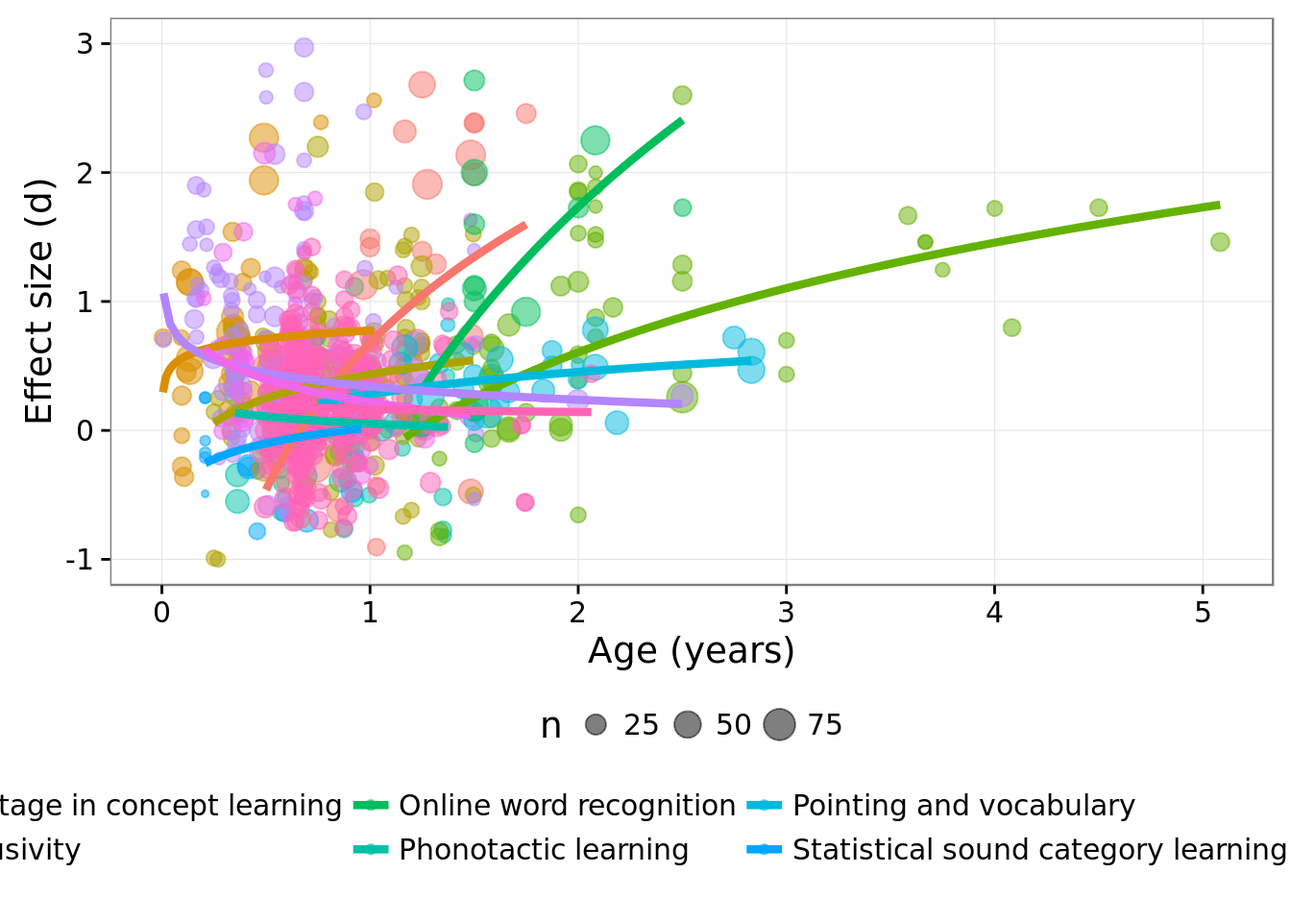
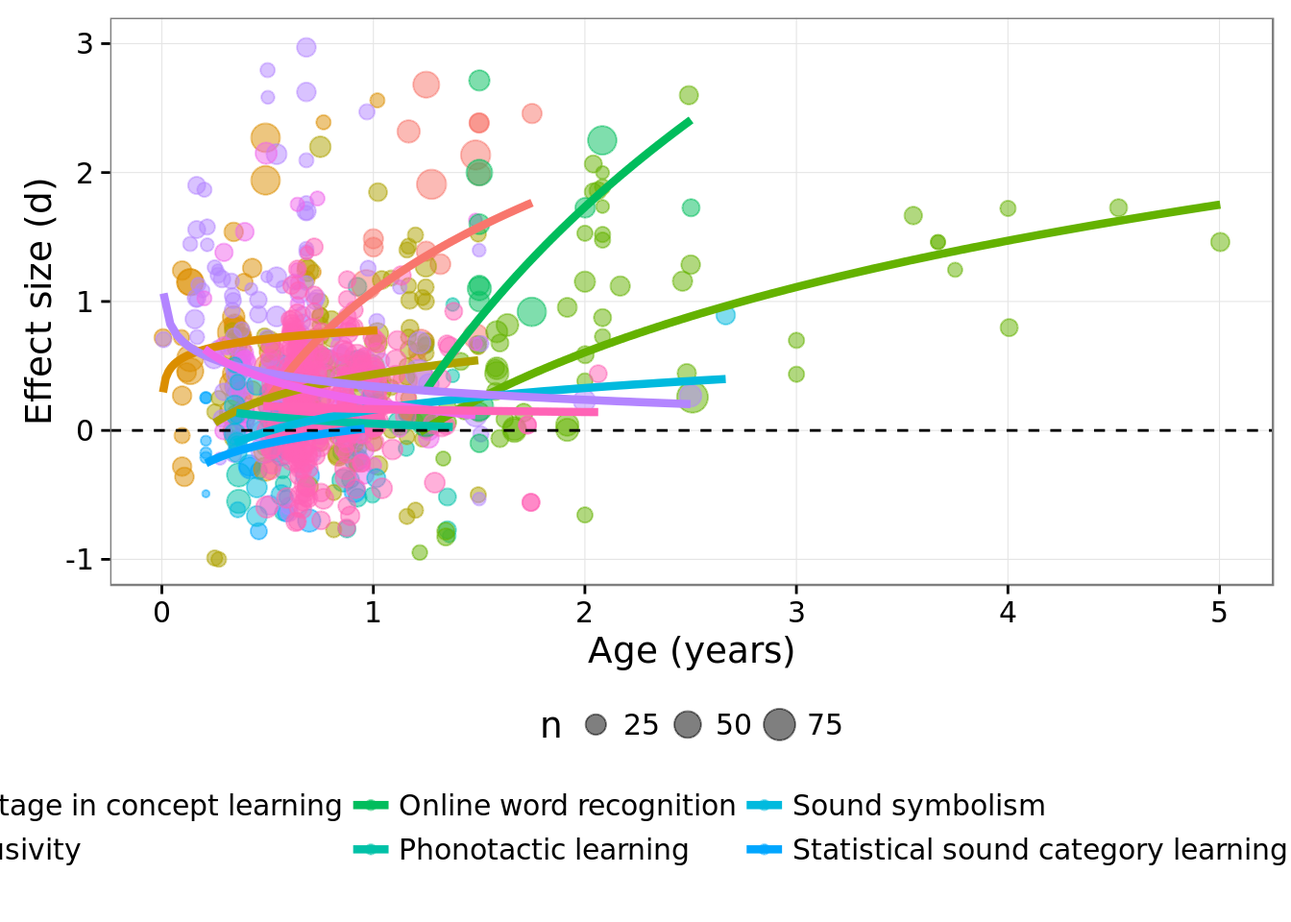
deployed to github pages

diff --git a/metameta.html b/metameta.html
@@ -257,15 +257,17 @@ div.tocify {
 
 <h1 class="title toc-ignore">Meta-meta analsyis</h1>
 <h4 class="author"><em>Molly Lewis, Mika Braginsky, &amp; Mike Frank</em></h4>
-<h4 class="date"><em>This report was rendered on 2016-05-12 and will be automatically re-rendered nightly, reflecting any changes in the data or code.</em></h4>
+<h4 class="date"><em>This report was rendered on 2016-06-02 and will be automatically re-rendered nightly, reflecting any changes in the data or code.</em></h4>
 
 </div>
 
 
-<div id="introduction" class="section level1">
-<h1>Introduction</h1>
 <p>Let’s put everything together.</p>
-<div class="sourceCode"><pre class="sourceCode r"><code class="sourceCode r"><span class="kw">ggplot</span>(all_data,
+<div id="all-effect-sizes" class="section level2">
+<h2>All effect sizes</h2>
+<div class="sourceCode"><pre class="sourceCode r"><code class="sourceCode r">all_data.f =<span class="st"> </span><span class="kw">filter</span>(all_data, dataset !=<span class="st"> &quot;Gaze following&quot;</span> |<span class="st"> </span>d_calc &gt;<span class="st"> </span><span class="dv">0</span>) %&gt;%
+<span class="st">                </span><span class="kw">filter</span>(dataset !=<span class="st"> &quot;Pointing and vocabulary&quot;</span>)
+<span class="kw">ggplot</span>(all_data.f,
        <span class="kw">aes</span>(<span class="dt">x =</span> mean_age/<span class="dv">365</span>, <span class="dt">y =</span> d_calc, <span class="dt">col =</span> dataset)) +<span class="st"> </span>
 <span class="st">  </span><span class="kw">geom_point</span>(<span class="kw">aes</span>(<span class="dt">size =</span> n), <span class="dt">alpha =</span> .<span class="dv">5</span>) +<span class="st"> </span>
 <span class="st">  </span><span class="kw">geom_smooth</span>(<span class="dt">method=</span><span class="st">&quot;lm&quot;</span>, <span class="dt">se =</span> <span class="ot">FALSE</span>, <span class="dt">size =</span> <span class="fl">1.5</span>, 
@@ -275,16 +277,15 @@ div.tocify {
 <span class="st">  </span><span class="kw">theme</span>(<span class="dt">legend.position =</span> <span class="st">&quot;bottom&quot;</span>,
         <span class="dt">legend.key =</span> <span class="kw">element_blank</span>(),
         <span class="dt">legend.background =</span> <span class="kw">element_rect</span>(<span class="dt">fill =</span> <span class="st">&quot;transparent&quot;</span>)) +<span class="st"> </span>
+<span class="st">    </span><span class="kw">geom_hline</span>(<span class="dt">yintercept =</span> <span class="dv">0</span>, <span class="dt">linetype =</span> <span class="st">&quot;dashed&quot;</span>) +
+
 <span class="st">  </span><span class="kw">scale_color_discrete</span>(<span class="dt">guide =</span> <span class="kw">guide_legend</span>(<span class="dt">nrow=</span><span class="dv">2</span>, 
                                              <span class="dt">title =</span> <span class="st">&quot;&quot;</span>)) +<span class="st"> </span>
 <span class="st">  </span><span class="kw">ylim</span>(<span class="kw">c</span>(-<span class="dv">1</span>, <span class="dv">3</span>))</code></pre></div>
 <p><img src="metameta_files/figure-html/unnamed-chunk-1-1.png" title="" alt="" width="672" /></p>
-<p>Plot without ME, to fcous on the first two years.</p>
-<div class="sourceCode"><pre class="sourceCode r"><code class="sourceCode r"><span class="kw">ggplot</span>(<span class="kw">filter</span>(all_data, 
-              mean_age &lt;<span class="st"> </span><span class="dv">365</span> *<span class="st"> </span><span class="fl">1.5</span>,
-              dataset !=<span class="st"> &quot;Mutual exclusivity&quot;</span>),
-       <span class="kw">aes</span>(<span class="dt">x =</span> mean_age/<span class="dv">365</span>, <span class="dt">y =</span> d_calc, <span class="dt">col =</span> dataset)) +<span class="st"> </span>
-<span class="st">  </span><span class="kw">geom_point</span>(<span class="kw">aes</span>(<span class="dt">size =</span> n), <span class="dt">alpha =</span> .<span class="dv">5</span>) +<span class="st"> </span>
+<p>Model fits only</p>
+<div class="sourceCode"><pre class="sourceCode r"><code class="sourceCode r">p =<span class="st"> </span><span class="kw">ggplot</span>(all_data.f,
+       <span class="kw">aes</span>(<span class="dt">x =</span> mean_age/<span class="dv">365</span>, <span class="dt">y =</span> d_calc, <span class="dt">col =</span> dataset, <span class="dt">group =</span> dataset)) +<span class="st"> </span>
 <span class="st">  </span><span class="kw">geom_smooth</span>(<span class="dt">method=</span><span class="st">&quot;lm&quot;</span>, <span class="dt">se =</span> <span class="ot">FALSE</span>, <span class="dt">size =</span> <span class="fl">1.5</span>, 
               <span class="kw">aes</span>(<span class="dt">weight =</span> <span class="dv">1</span>/d_var_calc), <span class="dt">formula =</span> y ~<span class="st"> </span><span class="kw">log</span>(x)) +<span class="st"> </span>
 <span class="st">  </span><span class="kw">xlab</span>(<span class="st">&quot;Age (years)&quot;</span>) +<span class="st"> </span>
@@ -292,10 +293,219 @@ div.tocify {
 <span class="st">  </span><span class="kw">theme</span>(<span class="dt">legend.position =</span> <span class="st">&quot;bottom&quot;</span>,
         <span class="dt">legend.key =</span> <span class="kw">element_blank</span>(),
         <span class="dt">legend.background =</span> <span class="kw">element_rect</span>(<span class="dt">fill =</span> <span class="st">&quot;transparent&quot;</span>)) +<span class="st"> </span>
+<span class="st">    </span><span class="kw">geom_hline</span>(<span class="dt">yintercept =</span> <span class="dv">0</span>, <span class="dt">linetype =</span> <span class="st">&quot;dashed&quot;</span>) +
+
 <span class="st">  </span><span class="kw">scale_color_discrete</span>(<span class="dt">guide =</span> <span class="kw">guide_legend</span>(<span class="dt">nrow=</span><span class="dv">2</span>, 
                                              <span class="dt">title =</span> <span class="st">&quot;&quot;</span>)) +<span class="st"> </span>
-<span class="st">  </span><span class="kw">ylim</span>(<span class="kw">c</span>(-<span class="dv">1</span>, <span class="dv">3</span>))</code></pre></div>
+<span class="st">  </span><span class="kw">ylim</span>(<span class="kw">c</span>(-<span class="dv">1</span>, <span class="dv">3</span>)) 
+<span class="kw">direct.label</span>(p, <span class="kw">list</span>(<span class="st">&quot;top.bumptwice&quot;</span>, <span class="kw">dl.trans</span>(<span class="dt">y =</span> y +<span class="st"> </span><span class="fl">0.2</span>), <span class="dt">cex=</span>.<span class="dv">8</span>))</code></pre></div>
 <p><img src="metameta_files/figure-html/unnamed-chunk-2-1.png" title="" alt="" width="672" /></p>
+<div class="sourceCode"><pre class="sourceCode r"><code class="sourceCode r"><span class="co">#direct.label(p, method = list(box.color = NA, &quot;maxvar.points&quot;,  cex=.8))</span></code></pre></div>
+<p>Focus on the first two years, without mutual exclusivity</p>
+<div class="sourceCode"><pre class="sourceCode r"><code class="sourceCode r">p2 =<span class="st"> </span><span class="kw">ggplot</span>(<span class="kw">filter</span>(all_data.f, 
+              mean_age &lt;<span class="st"> </span><span class="dv">365</span> *<span class="st"> </span><span class="dv">2</span>, dataset !=<span class="st"> &quot;Mutual exclusivity&quot;</span>),
+       <span class="kw">aes</span>(<span class="dt">x =</span> mean_age/<span class="dv">365</span>, <span class="dt">y =</span> d_calc, <span class="dt">col =</span> dataset)) +<span class="st"> </span>
+<span class="st">  </span><span class="co">#geom_point(aes(size = n), alpha = .5) + </span>
+<span class="st">  </span><span class="kw">geom_smooth</span>(<span class="dt">method=</span><span class="st">&quot;lm&quot;</span>, <span class="dt">se =</span> <span class="ot">FALSE</span>, <span class="dt">size =</span> <span class="fl">1.5</span>, 
+              <span class="kw">aes</span>(<span class="dt">weight =</span> <span class="dv">1</span>/d_var_calc), <span class="dt">formula =</span> y ~<span class="st"> </span><span class="kw">log</span>(x)) +<span class="st"> </span>
+<span class="st">      </span><span class="kw">geom_hline</span>(<span class="dt">yintercept =</span> <span class="dv">0</span>, <span class="dt">linetype =</span> <span class="st">&quot;dashed&quot;</span>) +
+
+<span class="st">  </span><span class="kw">xlab</span>(<span class="st">&quot;Age (years)&quot;</span>) +<span class="st"> </span>
+<span class="st">  </span><span class="kw">ylab</span>(<span class="st">&quot;Effect size (d)&quot;</span>) +<span class="st"> </span>
+<span class="st">  </span><span class="kw">theme</span>(<span class="dt">legend.position =</span> <span class="st">&quot;bottom&quot;</span>,
+        <span class="dt">legend.key =</span> <span class="kw">element_blank</span>(),
+        <span class="dt">legend.background =</span> <span class="kw">element_rect</span>(<span class="dt">fill =</span> <span class="st">&quot;transparent&quot;</span>)) +<span class="st"> </span>
+<span class="st">  </span><span class="kw">scale_color_discrete</span>(<span class="dt">guide =</span> <span class="kw">guide_legend</span>(<span class="dt">nrow=</span><span class="dv">2</span>, 
+                                             <span class="dt">title =</span> <span class="st">&quot;&quot;</span>)) 
+ <span class="kw">direct.label</span>(p2, <span class="kw">list</span>(<span class="st">&quot;top.bumptwice&quot;</span>, <span class="kw">dl.trans</span>(<span class="dt">y =</span> y +<span class="st"> </span><span class="fl">0.2</span>), <span class="dt">cex=</span>.<span class="dv">8</span>))</code></pre></div>
+<p><img src="metameta_files/figure-html/unnamed-chunk-3-1.png" title="" alt="" width="672" /></p>
+</div>
+<div id="by-language-domain" class="section level2">
+<h2>By language domain</h2>
+<div class="sourceCode"><pre class="sourceCode r"><code class="sourceCode r"> ld.df =<span class="st"> </span><span class="kw">data.frame</span>(<span class="dt">dataset =</span> datasets$name,
+                    <span class="dt">domain =</span> <span class="kw">c</span>(<span class="st">&quot;prosody&quot;</span>, <span class="st">&quot;words&quot;</span>, <span class="st">&quot;communication&quot;</span>, <span class="st">&quot;sounds&quot;</span>,
+                               <span class="st">&quot;sounds&quot;</span>, <span class="st">&quot;sounds&quot;</span>, <span class="st">&quot;sounds&quot;</span>, <span class="st">&quot;sounds&quot;</span>, <span class="st">&quot;words&quot;</span>,
+                               <span class="st">&quot;words&quot;</span>, <span class="st">&quot;communication&quot;</span>, <span class="st">&quot;sounds&quot;</span>))
+ ld.df$domain =<span class="st"> </span><span class="kw">factor</span>(ld.df$domain, <span class="dt">levels=</span><span class="kw">c</span>(<span class="st">&quot;prosody&quot;</span>,<span class="st">&quot;sounds&quot;</span>, <span class="st">&quot;words&quot;</span>, <span class="st">&quot;communication&quot;</span>))
+ 
+lin_lmer &lt;-<span class="st"> </span><span class="kw">lmer</span>(d_calc ~<span class="st"> </span>mean_age +<span class="st"> </span>
+<span class="st">                </span>(<span class="kw">log</span>(mean_age)|<span class="st"> </span>dataset), 
+                <span class="dt">weights =</span> <span class="dv">1</span>/d_var_calc, 
+                <span class="dt">REML =</span> F, <span class="dt">data =</span> all_data)
+
+lin_lmer_preds &lt;-<span class="st"> </span><span class="kw">predict</span>(lin_lmer, <span class="dt">re.form =</span> ~<span class="st"> </span>(<span class="kw">log</span>(mean_age)|<span class="st"> </span>dataset))
+
+
+all_data_preds &lt;-<span class="st"> </span>all_data %&gt;%
+<span class="st">  </span><span class="kw">select</span>(dataset, short_name, d_calc, d_var_calc, mean_age, study_ID) %&gt;%
+<span class="st">  </span><span class="kw">filter</span>(<span class="kw">complete.cases</span>(.)) %&gt;%
+<span class="st">  </span><span class="kw">mutate</span>(<span class="dt">lin_lmer_preds =</span> lin_lmer_preds) %&gt;%<span class="st"> </span>
+<span class="st">  </span><span class="kw">filter</span>(dataset !=<span class="st"> &quot;Gaze following&quot;</span> |<span class="st"> </span>lin_lmer_preds &gt;<span class="st"> </span><span class="dv">0</span>) %&gt;%
+<span class="st">                </span><span class="kw">filter</span>(dataset !=<span class="st"> &quot;Pointing and vocabulary&quot;</span>)
+
+p3 =<span class="st"> </span><span class="kw">ggplot</span>(<span class="kw">left_join</span>(all_data_preds, ld.df),
+       <span class="kw">aes</span>(<span class="dt">x =</span> mean_age/<span class="dv">365</span>, <span class="dt">y =</span> lin_lmer_preds, <span class="dt">col =</span> dataset)) +
+<span class="st">  </span><span class="co">#geom_line() +</span>
+<span class="st">  </span><span class="kw">facet_grid</span>(~domain) +
+<span class="st">  </span><span class="co">#geom_point(aes(size = n), alpha = .5) + </span>
+<span class="st">  </span><span class="kw">geom_smooth</span>(<span class="dt">method=</span><span class="st">&quot;lm&quot;</span>, <span class="dt">se =</span> <span class="ot">FALSE</span>, <span class="dt">size =</span> <span class="dv">1</span>, 
+              <span class="kw">aes</span>(<span class="dt">weight =</span> <span class="dv">1</span>/d_var_calc), <span class="dt">formula =</span> y ~<span class="st"> </span><span class="kw">log</span>(x)) +<span class="st"> </span>
+<span class="st">  </span><span class="kw">geom_hline</span>(<span class="dt">yintercept =</span> <span class="dv">0</span>, <span class="dt">linetype =</span> <span class="st">&quot;dashed&quot;</span>) +
+<span class="st">  </span><span class="kw">xlab</span>(<span class="st">&quot;Age (years)&quot;</span>) +<span class="st"> </span>
+<span class="st">  </span><span class="kw">ylab</span>(<span class="st">&quot;Effect size (d)&quot;</span>) +<span class="st"> </span>
+<span class="st">  </span><span class="kw">theme</span>(<span class="dt">legend.position =</span> <span class="st">&quot;bottom&quot;</span>,
+        <span class="dt">legend.key =</span> <span class="kw">element_blank</span>(),
+        <span class="dt">legend.background =</span> <span class="kw">element_rect</span>(<span class="dt">fill =</span> <span class="st">&quot;transparent&quot;</span>)) 
+
+ <span class="kw">direct.label</span>(p3, <span class="kw">list</span>(<span class="st">&quot;top.bumptwice&quot;</span>, <span class="kw">dl.trans</span>(<span class="dt">y =</span> y +<span class="st"> </span><span class="fl">0.1</span>), <span class="dt">cex=</span>.<span class="dv">8</span>))</code></pre></div>
+<p><img src="metameta_files/figure-html/unnamed-chunk-4-1.png" title="" alt="" width="672" /></p>
+<div id="split-by-response-mode" class="section level3">
+<h3>Split by response mode</h3>
+<div class="sourceCode"><pre class="sourceCode r"><code class="sourceCode r">lin_lmer &lt;-<span class="st"> </span><span class="kw">lmer</span>(d_calc ~<span class="st"> </span>mean_age +<span class="st"> </span>
+<span class="st">                </span>(<span class="kw">log</span>(mean_age)|<span class="st"> </span>dataset), 
+                <span class="dt">weights =</span> <span class="dv">1</span>/d_var_calc, 
+                <span class="dt">REML =</span> F, <span class="dt">data =</span> all_data)
+
+lin_lmer_preds &lt;-<span class="st"> </span><span class="kw">predict</span>(lin_lmer, <span class="dt">re.form =</span> ~<span class="st"> </span>(<span class="kw">log</span>(mean_age)|<span class="st"> </span>dataset))
+
+all_data_preds &lt;-<span class="st"> </span>all_data %&gt;%
+<span class="st">  </span><span class="kw">select</span>(dataset, short_name, d_calc, d_var_calc, mean_age, study_ID, response_mode) %&gt;%
+<span class="st">  </span><span class="kw">filter</span>(<span class="kw">complete.cases</span>(.)) %&gt;%
+<span class="st">  </span><span class="kw">mutate</span>(<span class="dt">lin_lmer_preds =</span> lin_lmer_preds) %&gt;%<span class="st"> </span>
+<span class="st">  </span><span class="kw">filter</span>(dataset !=<span class="st"> &quot;Gaze following&quot;</span> |<span class="st"> </span>lin_lmer_preds &gt;<span class="st"> </span><span class="dv">0</span>) %&gt;%
+<span class="st">                </span><span class="kw">filter</span>(dataset !=<span class="st"> &quot;Pointing and vocabulary&quot;</span>,
+                       response_mode ==<span class="st"> &quot;eye-tracking&quot;</span> |<span class="st"> </span>response_mode ==<span class="st"> &quot;behavior&quot;</span>)
+  
+
+p4 =<span class="st"> </span><span class="kw">ggplot</span>(<span class="kw">left_join</span>(all_data_preds, ld.df),
+       <span class="kw">aes</span>(<span class="dt">x =</span> mean_age/<span class="dv">365</span>, <span class="dt">y =</span> d_calc, <span class="dt">col =</span> dataset, <span class="dt">lty =</span> response_mode)) +
+<span class="st">  </span><span class="co">#geom_line() +</span>
+<span class="st">  </span><span class="kw">facet_grid</span>(~domain) +
+<span class="st">  </span><span class="co">#geom_point(aes(size = n), alpha = .5) + </span>
+<span class="st">  </span><span class="kw">geom_smooth</span>(<span class="dt">method=</span><span class="st">&quot;lm&quot;</span>, <span class="dt">se =</span> <span class="ot">FALSE</span>, <span class="dt">size =</span> <span class="dv">1</span>, 
+              <span class="kw">aes</span>(<span class="dt">weight =</span> <span class="dv">1</span>/d_var_calc), <span class="dt">formula =</span> y ~<span class="st"> </span><span class="kw">log</span>(x)) +<span class="st"> </span>
+<span class="st">  </span><span class="kw">geom_hline</span>(<span class="dt">yintercept =</span> <span class="dv">0</span>, <span class="dt">linetype =</span> <span class="st">&quot;dashed&quot;</span>) +
+<span class="st">  </span><span class="kw">xlab</span>(<span class="st">&quot;Age (years)&quot;</span>) +<span class="st"> </span>
+<span class="st">  </span><span class="kw">ylab</span>(<span class="st">&quot;Effect size (d)&quot;</span>) +<span class="st"> </span>
+<span class="st">  </span><span class="kw">theme</span>(<span class="dt">legend.position =</span> <span class="st">&quot;bottom&quot;</span>,
+        <span class="dt">legend.key =</span> <span class="kw">element_blank</span>(),
+        <span class="dt">legend.background =</span> <span class="kw">element_rect</span>(<span class="dt">fill =</span> <span class="st">&quot;transparent&quot;</span>)) 
+
+ <span class="kw">direct.label</span>(p4, <span class="kw">list</span>(<span class="st">&quot;top.bumptwice&quot;</span>, <span class="kw">dl.trans</span>(<span class="dt">y =</span> y +<span class="st"> </span><span class="fl">0.1</span>), <span class="dt">cex=</span>.<span class="dv">8</span>))</code></pre></div>
+<p><img src="metameta_files/figure-html/unnamed-chunk-5-1.png" title="" alt="" width="672" /></p>
+</div>
+</div>
+<div id="cliffs-delta-dominance-statistic" class="section level2">
+<h2>Cliff’s delta (dominance statistic)</h2>
+<div class="sourceCode"><pre class="sourceCode r"><code class="sourceCode r">lin_lmer &lt;-<span class="st"> </span><span class="kw">lmer</span>(d_calc ~<span class="st"> </span><span class="kw">log</span>(mean_age) +<span class="st"> </span>
+<span class="st">                </span>(<span class="kw">log</span>(mean_age)|<span class="st"> </span>dataset), 
+                <span class="dt">weights =</span> <span class="dv">1</span>/d_var_calc, 
+                <span class="dt">REML =</span> F, <span class="dt">data =</span> all_data)
+
+cliffs.deltas &lt;-<span class="st"> </span><span class="kw">predict</span>(lin_lmer, <span class="dt">re.form =</span> ~<span class="st"> </span>(<span class="kw">log</span>(mean_age) |<span class="st"> </span>dataset))  %&gt;%
+<span class="st">                </span><span class="kw">cbind</span>(., <span class="kw">select</span>(all_data, mean_age, dataset)) %&gt;%<span class="st"> </span>
+<span class="st">                </span><span class="kw">rename_</span>(<span class="st">&quot;cohens.d&quot;</span> =<span class="st"> &quot;.&quot;</span>) %&gt;%
+<span class="st">                </span><span class="kw">distinct</span>() %&gt;%
+<span class="st">                </span><span class="kw">arrange</span>(dataset, mean_age) %&gt;%
+<span class="st">                </span><span class="kw">mutate</span>(<span class="dt">cliff.delta =</span> <span class="kw">cohd2delta</span>(cohens.d)) %&gt;%
+<span class="st">                </span><span class="kw">filter</span>(cliff.delta &gt;<span class="st"> </span>-<span class="dv">1</span>) %&gt;%<span class="st"> </span><span class="co"># why is there 1 value not bounded at 1?</span>
+<span class="st">                </span><span class="kw">filter</span>(dataset !=<span class="st"> &quot;Gaze following&quot;</span> |<span class="st"> </span>cohens.d &gt;<span class="st"> </span><span class="dv">0</span>) %&gt;%
+<span class="st">                </span><span class="kw">filter</span>(dataset !=<span class="st"> &quot;Pointing and vocabulary&quot;</span>)
+
+p =<span class="st"> </span><span class="kw">ggplot</span>(<span class="kw">left_join</span>(cliffs.deltas, ld.df), <span class="kw">aes</span>(<span class="dt">x =</span> mean_age/<span class="dv">365</span>, <span class="dt">y =</span> cliff.delta,
+                                             <span class="dt">group =</span> dataset)) +
+<span class="st">  </span><span class="kw">geom_line</span>(<span class="kw">aes</span>(<span class="dt">color=</span> dataset, <span class="dt">group =</span> dataset), <span class="dt">size =</span> <span class="dv">1</span>) +
+<span class="st">  </span><span class="kw">facet_grid</span>(~domain) +
+<span class="st">  </span><span class="kw">ylim</span>(-.<span class="dv">2</span>,<span class="dv">1</span>) +
+<span class="st">  </span><span class="kw">geom_hline</span>(<span class="dt">yintercept =</span> <span class="dv">0</span>, <span class="dt">lty =</span> <span class="dv">2</span>, <span class="dt">col =</span> <span class="st">&quot;black&quot;</span>) +
+<span class="st">  </span><span class="kw">xlab</span>(<span class="st">&quot;Age (years)&quot;</span>) +
+<span class="st">  </span><span class="kw">ylab</span>(<span class="st">&quot;cliff&#39;s delta&quot;</span>)  +
+<span class="st">  </span><span class="kw">scale_color_discrete</span>(<span class="dt">guide =</span> <span class="ot">FALSE</span>) 
+  <span class="co">#scale_x_continuous(breaks = seq(0,160,12)) +</span>
+  <span class="co">#theme(axis.text.x = element_text( angle=45))</span>
+
+<span class="kw">direct.label</span>(p, <span class="kw">list</span>(<span class="st">&quot;top.bumptwice&quot;</span>, <span class="kw">dl.trans</span>(<span class="dt">y =</span> y +<span class="st"> </span><span class="fl">0.2</span>, <span class="dt">cex=</span>.<span class="dv">8</span>)))</code></pre></div>
+<p><img src="metameta_files/figure-html/unnamed-chunk-6-1.png" title="" alt="" width="672" /></p>
+<div class="sourceCode"><pre class="sourceCode r"><code class="sourceCode r">### MISC:
+### Does the functional form vary across domains?
+lin_lmer_preds &lt;-<span class="st"> </span><span class="kw">predict</span>(lin_lmer, <span class="dt">re.form =</span> ~<span class="st"> </span>(<span class="kw">log</span>(mean_age)|<span class="st"> </span>dataset))
+log_lmer_preds &lt;-<span class="st"> </span><span class="kw">predict</span>(log_lmer, <span class="dt">re.form =</span> ~<span class="st"> </span>(<span class="kw">log</span>(mean_age)|<span class="st"> </span>dataset))
+quad_lmer_preds &lt;-<span class="st"> </span><span class="kw">predict</span>(quad_lmer, <span class="dt">re.form =</span> ~<span class="st"> </span>(<span class="kw">log</span>(mean_age)|<span class="st"> </span>dataset))
+
+all_data_preds &lt;-<span class="st"> </span>all_data %&gt;%
+<span class="st">  </span><span class="kw">select</span>(dataset, short_name, d_calc, d_var_calc, mean_age, study_ID) %&gt;%
+<span class="st">  </span><span class="kw">filter</span>(<span class="kw">complete.cases</span>(.)) %&gt;%
+<span class="st">  </span><span class="kw">mutate</span>(<span class="dt">lin_lmer_preds =</span> lin_lmer_preds,
+         <span class="dt">log_lmer_preds =</span> log_lmer_preds,
+         <span class="dt">quad_lmer_preds =</span> quad_lmer_preds) %&gt;%
+<span class="st">  </span><span class="kw">gather</span>(<span class="st">&quot;model&quot;</span>, <span class="st">&quot;value&quot;</span> , <span class="dv">7</span>:<span class="dv">9</span>) %&gt;%
+<span class="st">  </span><span class="kw">mutate</span>(<span class="dt">dataset.model =</span> <span class="kw">paste</span>(dataset, model, <span class="dt">sep =</span> <span class="st">&quot;_&quot;</span>))</code></pre></div>
+<div class="sourceCode"><pre class="sourceCode r"><code class="sourceCode r"><span class="kw">ggplot</span>(<span class="kw">left_join</span>(all_data_preds, ld.df), <span class="kw">aes</span>(<span class="dt">x =</span> mean_age, <span class="dt">y =</span> d_calc,
+                                             <span class="dt">group =</span> dataset.model)) +
+<span class="st">  </span><span class="kw">geom_line</span>(<span class="kw">aes</span>(<span class="dt">color=</span> dataset.model, <span class="dt">group =</span> dataset.model,  <span class="dt">y =</span> value)) +
+<span class="st">  </span><span class="kw">facet_wrap</span>(model ~<span class="st"> </span>domain, <span class="dt">scales =</span> <span class="st">&quot;free&quot;</span>) +<span class="st"> </span>
+<span class="st">  </span><span class="kw">geom_hline</span>(<span class="dt">yintercept =</span> <span class="dv">0</span>, <span class="dt">lty =</span> <span class="dv">2</span>, <span class="dt">col =</span> <span class="st">&quot;black&quot;</span>) +
+<span class="st">  </span><span class="kw">xlab</span>(<span class="st">&quot;Mean age in days&quot;</span>) +
+<span class="st">  </span><span class="kw">ylab</span>(<span class="st">&quot;d (original and calculated)&quot;</span>)  +
+<span class="st">  </span><span class="kw">scale_color_discrete</span>(<span class="dt">guide =</span> <span class="ot">FALSE</span>) </code></pre></div>
+<div class="sourceCode"><pre class="sourceCode r"><code class="sourceCode r">## Subset to common methods
+lin_lmer &lt;-<span class="st"> </span><span class="kw">lmer</span>(d_calc ~<span class="st"> </span>mean_age +<span class="st"> </span>
+<span class="st">                </span>(<span class="kw">log</span>(mean_age)|<span class="st"> </span>dataset), 
+                <span class="dt">weights =</span> <span class="dv">1</span>/d_var_calc, 
+                <span class="dt">REML =</span> F, <span class="dt">data =</span> <span class="kw">filter</span>(all_data, response_mode ==<span class="st"> &quot;behavior&quot;</span>))
+
+log_lmer &lt;-<span class="st"> </span><span class="kw">lmer</span>(d_calc ~<span class="st"> </span><span class="kw">log</span>(mean_age) +<span class="st"> </span>
+<span class="st">                </span>(<span class="kw">log</span>(mean_age)|<span class="st"> </span>dataset), 
+                <span class="dt">weights =</span> <span class="dv">1</span>/d_var_calc, 
+                <span class="dt">REML =</span> F, <span class="dt">data =</span> <span class="kw">filter</span>(all_data, response_mode ==<span class="st"> &quot;behavior&quot;</span>))
+
+quad_lmer &lt;-<span class="st"> </span><span class="kw">lmer</span>(d_calc ~<span class="st"> </span><span class="kw">I</span>(mean_age^<span class="dv">2</span>) +<span class="st"> </span>
+<span class="st">                 </span>(<span class="kw">log</span>(mean_age)|<span class="st"> </span>dataset) , 
+                 <span class="dt">weights =</span> <span class="dv">1</span>/d_var_calc, 
+                 <span class="dt">REML =</span> F, <span class="dt">data =</span> <span class="kw">filter</span>(all_data, response_mode ==<span class="st"> &quot;behavior&quot;</span>))
+
+<span class="kw">kable</span>(<span class="kw">anova</span>(lin_lmer, log_lmer))
+<span class="kw">kable</span>(<span class="kw">anova</span>(lin_lmer, quad_lmer))
+<span class="kw">kable</span>(<span class="kw">anova</span>(log_lmer, quad_lmer))</code></pre></div>
+<div class="sourceCode"><pre class="sourceCode r"><code class="sourceCode r">lin_lmer &lt;-<span class="st"> </span><span class="kw">lmer</span>(d_calc ~<span class="st"> </span>mean_age +<span class="st"> </span>
+<span class="st">                </span>(<span class="kw">log</span>(mean_age)|<span class="st"> </span>dataset), 
+                <span class="dt">weights =</span> <span class="dv">1</span>/d_var_calc, 
+                <span class="dt">REML =</span> F, <span class="dt">data =</span> <span class="kw">filter</span>(all_data, response_mode ==<span class="st"> &quot;eyetracking&quot;</span>))
+
+log_lmer &lt;-<span class="st"> </span><span class="kw">lmer</span>(d_calc ~<span class="st"> </span><span class="kw">log</span>(mean_age) +<span class="st"> </span>
+<span class="st">                </span>(<span class="kw">log</span>(mean_age)|<span class="st"> </span>dataset), 
+                <span class="dt">weights =</span> <span class="dv">1</span>/d_var_calc, 
+                <span class="dt">REML =</span> F, <span class="dt">data =</span> <span class="kw">filter</span>(all_data, response_mode ==<span class="st"> &quot;eyetracking&quot;</span>))
+
+quad_lmer &lt;-<span class="st"> </span><span class="kw">lmer</span>(d_calc ~<span class="st"> </span><span class="kw">I</span>(mean_age^<span class="dv">2</span>) +<span class="st"> </span>
+<span class="st">                 </span>(<span class="kw">log</span>(mean_age)|<span class="st"> </span>dataset) , 
+                 <span class="dt">weights =</span> <span class="dv">1</span>/d_var_calc, 
+                 <span class="dt">REML =</span> F, <span class="dt">data =</span> <span class="kw">filter</span>(all_data, response_mode ==<span class="st"> &quot;eyetracking&quot;</span>))
+
+<span class="kw">kable</span>(<span class="kw">anova</span>(lin_lmer, log_lmer))
+<span class="kw">kable</span>(<span class="kw">anova</span>(lin_lmer, quad_lmer))
+<span class="kw">kable</span>(<span class="kw">anova</span>(log_lmer, quad_lmer))</code></pre></div>
+<div class="sourceCode"><pre class="sourceCode r"><code class="sourceCode r"><span class="co"># Developmental Curves </span>
+## What&#39;s the best fitting functional form of development, independent of phenomenona?
+lin_lmer &lt;-<span class="st"> </span><span class="kw">lmer</span>(d_calc ~<span class="st"> </span>mean_age +<span class="st"> </span>
+<span class="st">                </span>(<span class="kw">log</span>(mean_age)|<span class="st"> </span>dataset), 
+                <span class="dt">weights =</span> <span class="dv">1</span>/d_var_calc, 
+                <span class="dt">REML =</span> F, <span class="dt">data =</span> all_data)
+
+log_lmer &lt;-<span class="st"> </span><span class="kw">lmer</span>(d_calc ~<span class="st"> </span><span class="kw">log</span>(mean_age) +<span class="st"> </span>
+<span class="st">                </span>(<span class="kw">log</span>(mean_age)|<span class="st"> </span>dataset), 
+                <span class="dt">weights =</span> <span class="dv">1</span>/d_var_calc, 
+                <span class="dt">REML =</span> F, <span class="dt">data =</span> all_data)
+
+quad_lmer &lt;-<span class="st"> </span><span class="kw">lmer</span>(d_calc ~<span class="st"> </span><span class="kw">I</span>(mean_age^<span class="dv">2</span>) +<span class="st"> </span>
+<span class="st">                 </span>(<span class="kw">log</span>(mean_age)|<span class="st"> </span>dataset) , 
+                 <span class="dt">weights =</span> <span class="dv">1</span>/d_var_calc, 
+                 <span class="dt">REML =</span> F, <span class="dt">data =</span> all_data)
+
+<span class="kw">kable</span>(<span class="kw">anova</span>(lin_lmer, log_lmer))
+<span class="kw">kable</span>(<span class="kw">anova</span>(lin_lmer, quad_lmer))
+<span class="kw">kable</span>(<span class="kw">anova</span>(log_lmer, quad_lmer))
+<span class="co">#Doesn&#39;t really seem to matter. </span></code></pre></div>
 </div>
 
 

diff --git a/hierarchicalrandomeffect.html b/hierarchicalrandomeffect.html
@@ -257,7 +257,7 @@ div.tocify {
 
 <h1 class="title toc-ignore">Hierarchical Random Effects in Meta-Analyses: Do they change stuff?</h1>
 <h4 class="author"><em>Sho Tsuji and Christina Bergmann</em></h4>
-<h4 class="date"><em>This report was rendered on 2016-05-12 and will be automatically re-rendered nightly, reflecting any changes in the data or code.</em></h4>
+<h4 class="date"><em>This report was rendered on 2016-06-02 and will be automatically re-rendered nightly, reflecting any changes in the data or code.</em></h4>
 
 </div>
 

diff --git a/design_choice.html b/design_choice.html
@@ -257,7 +257,7 @@ div.tocify {
 
 <h1 class="title toc-ignore">Design Choice Analyses</h1>
 <h4 class="author"><em>Molly Lewis</em></h4>
-<h4 class="date"><em>This report was rendered on 2016-05-12 and will be automatically re-rendered nightly, reflecting any changes in the data or code.</em></h4>
+<h4 class="date"><em>This report was rendered on 2016-06-02 and will be automatically re-rendered nightly, reflecting any changes in the data or code.</em></h4>
 
 </div>
 
